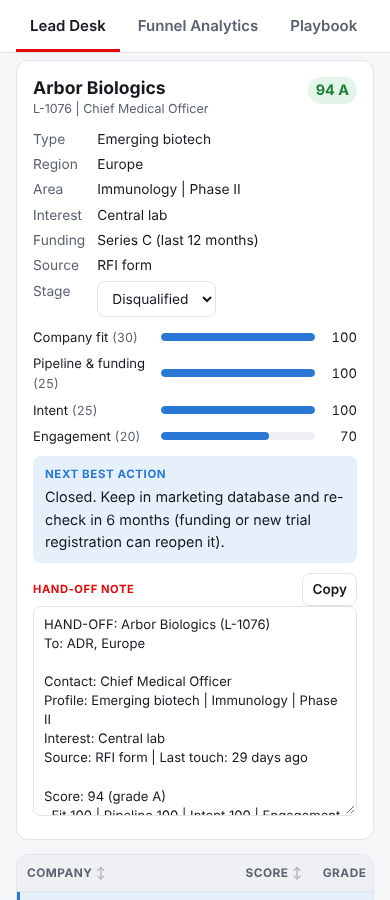
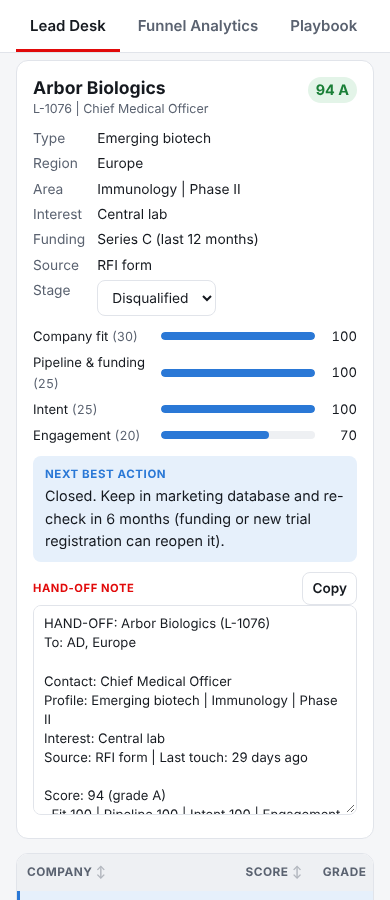
Rename ADR to AD across the site
Claude-Session: https://claude.ai/code/session_01FrjEJg2muyEtjdY5yfbP8i

diff --git a/index.html b/index.html
@@ -39,12 +39,12 @@
   <div class="panel" id="desk" role="tabpanel">
     <section class="block">
       <h2>Lead Desk</h2>
-      <p class="lead">Every morning: which marketing leads go to an ADR today, which get nurtured, and which wait. Leads are scored on four factors, the queue is sorted by score, and each lead gets a next best action and a ready hand-off note.</p>
+      <p class="lead">Every morning: which marketing leads go to an AD today, which get nurtured, and which wait. Leads are scored on four factors, the queue is sorted by score, and each lead gets a next best action and a ready hand-off note.</p>
       <div class="demo-note">Demo data: 64 fictional companies, generated for this prototype.</div>
 
       <div class="tiles">
         <div class="tile"><div class="k">Leads in queue</div><div class="v" id="d-total">0</div><div class="s">last 13 weeks</div></div>
-        <div class="tile"><div class="k">Grade A (75+)</div><div class="v" id="d-a">0</div><div class="s">route to ADR within 24h</div></div>
+        <div class="tile"><div class="k">Grade A (75+)</div><div class="v" id="d-a">0</div><div class="s">route to AD within 24h</div></div>
         <div class="tile"><div class="k">Grade B (60 to 74)</div><div class="v" id="d-b">0</div><div class="s">targeted nurture</div></div>
         <div class="tile"><div class="k">SLA breaches</div><div class="v" id="d-sla">0</div><div class="s">grade A, not worked in 24h</div></div>
       </div>
@@ -157,14 +157,14 @@
         <div class="stage"><div class="n">1</div><h3>New</h3><p class="muted">Lead created from marketing or research. Scored automatically.</p><p><b>Exit:</b> first touch logged.</p></div>
         <div class="stage"><div class="n">2</div><h3>Working</h3><p class="muted">Analyst researching and making contact.</p><p><b>Exit:</b> fit confirmed and a reply or meeting interest.</p></div>
         <div class="stage"><div class="n">3</div><h3>MQL</h3><p class="muted">Marketing qualified: right profile, real interest.</p><p><b>Exit:</b> need, timing and service line identified.</p></div>
-        <div class="stage"><div class="n">4</div><h3>SQL</h3><p class="muted">ADR accepts the hand-off and owns the relationship.</p><p><b>Exit:</b> RFP or RFI received.</p></div>
+        <div class="stage"><div class="n">4</div><h3>SQL</h3><p class="muted">AD accepts the hand-off and owns the relationship.</p><p><b>Exit:</b> RFP or RFI received.</p></div>
         <div class="stage"><div class="n">5</div><h3>RFP</h3><p class="muted">Proposal in progress with Business Development.</p><p><b>Exit:</b> awarded, lost or withdrawn.</p></div>
       </div>
 
       <div class="grid" style="margin-top:14px">
         <div class="card"><span class="label">Response SLAs</span><ul>
           <li>RFI form or referral: first response within <b>4 business hours</b></li>
-          <li>Grade A lead: to an ADR within <b>24 hours</b></li>
+          <li>Grade A lead: to an AD within <b>24 hours</b></li>
           <li>Grade B lead: first nurture touch within <b>3 business days</b></li>
           <li>Grade C lead: marketing nurture, re-score monthly</li>
         </ul></div>
@@ -180,7 +180,7 @@
           <li>What: trial phase, area, service interest</li>
           <li>Why now: funding, new trial, RFI, event</li>
           <li>Next step agreed with the prospect</li>
-          <li>Warm intro by email, ADR in copy</li>
+          <li>Warm intro by email, AD in copy</li>
         </ul></div>
       </div>
 
@@ -193,7 +193,7 @@
         <li><b>History:</b> CRM check for past contact, earlier proposals or existing work with any Thermo Fisher business.</li>
       </ol>
 
-      <h3 style="margin-top:24px">New hire onboarding plan (ADR team)</h3>
+      <h3 style="margin-top:24px">New hire onboarding plan (AD team)</h3>
       <div class="grid">
         <div class="card"><span class="label">Week 1: tools</span><ul><li>CRM and sales automation set-up, views and dashboards</li><li>Lead stages, SLAs and this playbook</li><li>Shadow lead triage for two mornings</li></ul></div>
         <div class="card"><span class="label">Week 2: offer</span><ul><li>CRO services overview: clinical, regulatory, preclinical, data, labs</li><li>Therapeutic area one-pagers</li><li>Listen to 3 discovery calls</li></ul></div>
@@ -291,13 +291,13 @@ Best,
         <p>I like the commercial side when it is backed by data: finding the right customers, measuring what works, making the team more effective. At a CRO that work helps get new medicines to patients faster, which makes the numbers matter more. Thermo Fisher's mission (healthier, cleaner, safer) is a clear reason to show up.</p>
       </div></details>
       <details class="q"><summary>You have 50 new leads on Monday. How do you prioritise?<span class="tag">Lead mgmt</span></summary><div class="a">
-        <p>Score them on fit, pipeline, intent and engagement (exactly what the Lead Desk does). RFIs and referrals first, within hours. Grade A to the ADRs the same day with a hand-off note. Grade B into targeted nurture. Grade C stays with Marketing. Then I check the SLA list at the end of the day.</p>
+        <p>Score them on fit, pipeline, intent and engagement (exactly what the Lead Desk does). RFIs and referrals first, within hours. Grade A to the ADs the same day with a hand-off note. Grade B into targeted nurture. Grade C stays with Marketing. Then I check the SLA list at the end of the day.</p>
       </div></details>
       <details class="q"><summary>How would you research a prospective client?<span class="tag">Demand gen</span></summary><div class="a">
         <p>Pipeline page and ClinicalTrials.gov for phase and timing, funding news, LinkedIn for decision makers, CRM history. I look for a "why now": a new round, a trial moving to the next phase, a regulatory designation.</p>
       </div></details>
-      <details class="q"><summary>What makes a good hand-off to an ADR?<span class="tag">Collaboration</span></summary><div class="a">
-        <p>The ADR should not need to redo my research. Who, what, why now, what was agreed with the prospect, and a warm intro. The Lead Desk generates this note automatically.</p>
+      <details class="q"><summary>What makes a good hand-off to an AD?<span class="tag">Collaboration</span></summary><div class="a">
+        <p>The AD should not need to redo my research. Who, what, why now, what was agreed with the prospect, and a warm intro. The Lead Desk generates this note automatically.</p>
       </div></details>
       <details class="q"><summary>How would you train the team on a new tool?<span class="tag">Training</span></summary><div class="a">
         <p>Short sessions built on real daily tasks, a one-page cheat sheet, a shared playbook, and office hours in the first weeks. Then I measure adoption (fields filled, reports used) and fix what people struggle with.</p>
@@ -335,19 +335,19 @@ Best,
 
       <h3 style="margin-top:24px">30 / 60 / 90 days</h3>
       <div class="grid">
-        <div class="card"><span class="label">First 30: learn</span><ul><li>CRM, automation tools and reporting protocols</li><li>CRG service lines and therapeutic areas</li><li>Shadow ADRs on calls and hand-offs</li><li>Take over the daily lead queue</li></ul></div>
-        <div class="card"><span class="label">Days 31 to 60: improve</span><ul><li>Meet response SLAs every week</li><li>Agree the scoring and hand-off format with ADRs</li><li>First demand generation lists from research</li><li>Own the weekly report</li></ul></div>
+        <div class="card"><span class="label">First 30: learn</span><ul><li>CRM, automation tools and reporting protocols</li><li>CRG service lines and therapeutic areas</li><li>Shadow ADs on calls and hand-offs</li><li>Take over the daily lead queue</li></ul></div>
+        <div class="card"><span class="label">Days 31 to 60: improve</span><ul><li>Meet response SLAs every week</li><li>Agree the scoring and hand-off format with ADs</li><li>First demand generation lists from research</li><li>Own the weekly report</li></ul></div>
         <div class="card"><span class="label">Days 61 to 90: grow</span><ul><li>Source and area analysis with Marketing</li><li>Propose one campaign to lift RFP volume</li><li>Run tool training for a new hire</li><li>Review: what moved, what is next</li></ul></div>
       </div>
 
       <h3 style="margin-top:24px">Questions to ask them</h3>
       <div class="card"><ul>
-        <li>How many ADRs would I support, and how is work split between analysts and ADRs today?</li>
+        <li>How many ADs would I support, and how is work split between analysts and ADs today?</li>
         <li>Which CRM and sales automation tools does the team use, and where does the data quality hurt most?</li>
         <li>How are leads scored and handed off today? Is there an agreed definition of MQL and SQL?</li>
         <li>Which lead sources produce the most RFPs, and which does the team wish worked better?</li>
         <li>What would make you say after six months that this hire was a success?</li>
-        <li>How does the role grow: toward ADR, marketing operations, or sales analytics?</li>
+        <li>How does the role grow: toward AD, marketing operations, or sales analytics?</li>
       </ul></div>
     </section>
   </div>

diff --git a/js/app.js b/js/app.js
@@ -8,7 +8,7 @@
   var weights = { fit: 30, pipeline: 25, intent: 25, engagement: 20 };
   var TYPE = { "Emerging biotech": 1, "Mid-size biopharma": 0.9, "Large pharma": 0.6, "Medical device": 0.5, "Academic / NIH": 0.3 };
   var PHASE = { "Preclinical": 0.5, "Phase I": 0.8, "Phase II": 1, "Phase III": 0.9 };
-  var SOURCE = { "RFI form": 1, "Referral": 0.9, "Conference": 0.6, "Webinar": 0.6, "ADR outbound": 0.4, "Content download": 0.35 };
+  var SOURCE = { "RFI form": 1, "Referral": 0.9, "Conference": 0.6, "Webinar": 0.6, "AD outbound": 0.4, "Content download": 0.35 };
   var REGION = { "North America": 1, "Europe": 1, "APAC": 0.8, "LATAM": 0.7 };
 
   function parts(l) {
@@ -49,10 +49,10 @@
   function nextAction(l) {
     var g = grade(score(l));
     if (l.stage === "Disqualified") return "Closed. Keep in marketing database and re-check in 6 months (funding or new trial registration can reopen it).";
-    if (l.stage === "RFP") return "RFP in progress. Support the ADR: collect protocol synopsis, timelines and budget range, book the bid defense prep, log every touch in CRM.";
-    if (l.stage === "SQL") return "Accepted by sales. Confirm the ADR has a discovery call booked and the opportunity is created with service line and expected RFP date.";
-    if (l.source === "RFI form" && (l.stage === "New" || l.stage === "Working")) return "Inbound RFI: respond within 24 hours, qualify scope and timing, then hand off to the ADR the same day.";
-    if (g === "A") return "Hot lead. Route to the ADR today with a hand-off note and suggest a discovery call this week (SLA: 24 hours).";
+    if (l.stage === "RFP") return "RFP in progress. Support the AD: collect protocol synopsis, timelines and budget range, book the bid defense prep, log every touch in CRM.";
+    if (l.stage === "SQL") return "Accepted by sales. Confirm the AD has a discovery call booked and the opportunity is created with service line and expected RFP date.";
+    if (l.source === "RFI form" && (l.stage === "New" || l.stage === "Working")) return "Inbound RFI: respond within 24 hours, qualify scope and timing, then hand off to the AD the same day.";
+    if (g === "A") return "Hot lead. Route to the AD today with a hand-off note and suggest a discovery call this week (SLA: 24 hours).";
     if (g === "B" && l.source === "Webinar") return "Send the webinar recording plus one " + l.area.toLowerCase() + " case study. Follow up in 3 business days.";
     if (g === "B") return "Nurture: 3-touch sequence on " + l.service.toLowerCase() + " for " + l.phase + " sponsors. Re-score after 14 days.";
     return "Keep in marketing nurture. Re-score monthly; watch for funding news or a new trial on ClinicalTrials.gov.";
@@ -71,7 +71,7 @@
     if (l.email >= 2) why.push("clicked or replied to outreach");
     return [
       "HAND-OFF: " + l.company + " (" + l.id + ")",
-      "To: ADR, " + l.region,
+      "To: AD, " + l.region,
       "",
       "Contact: " + l.contact,
       "Profile: " + l.type + " | " + l.area + " | " + l.phase,
@@ -188,7 +188,7 @@
   function renderDetail() {
     var box = $("#detail");
     var l = leads.filter(function (x) { return x.id === selected; })[0];
-    if (!l) { box.innerHTML = '<div class="empty">Select a lead to see its score breakdown, next best action and a hand-off note for the ADR.</div>'; return; }
+    if (!l) { box.innerHTML = '<div class="empty">Select a lead to see its score breakdown, next best action and a hand-off note for the AD.</div>'; return; }
     var p = parts(l), s = score(l), g = grade(s);
     var opts = STAGES.map(function (st) { return "<option" + (st === l.stage ? " selected" : "") + ">" + st + "</option>"; }).join("");
     box.innerHTML =
@@ -335,7 +335,7 @@
       srcs.map(function (s) { return "  " + (s.k + ":                ").slice(0, 18) + s.rate + "% of " + s.n + " leads, " + s.rfp + " RFPs"; }).join("\n"),
       "",
       "ACTIONS",
-      "  1. Clear SLA breaches today and hand off to ADRs with notes.",
+      "  1. Clear SLA breaches today and hand off to ADs with notes.",
       "  2. Re-engage " + stuck + " stalled MQLs with a case study from " + areas[0].a.toLowerCase() + ".",
       "  3. Ask Marketing for more " + best.k.toLowerCase() + " volume; review " + worst.k.toLowerCase() + " targeting."
     ].join("\n");

diff --git a/js/data.js b/js/data.js
@@ -24,7 +24,7 @@
   var areas = [["Oncology", 30], ["Rare disease", 16], ["Infectious disease", 14], ["CNS", 14], ["Immunology", 13], ["Cardiometabolic", 13]];
   var phases = [["Preclinical", 20], ["Phase I", 30], ["Phase II", 30], ["Phase III", 20]];
   var services = ["Clinical trial support", "Regulatory affairs", "Preclinical studies", "Data management", "Central lab"];
-  var sources = [["Webinar", 24], ["Content download", 22], ["RFI form", 12], ["Conference", 14], ["ADR outbound", 18], ["Referral", 14]];
+  var sources = [["Webinar", 24], ["Content download", 22], ["RFI form", 12], ["Conference", 14], ["AD outbound", 18], ["Referral", 14]];
   var rounds = ["Seed", "Series A", "Series B", "Series C", "IPO"];
 
   var used = {};
